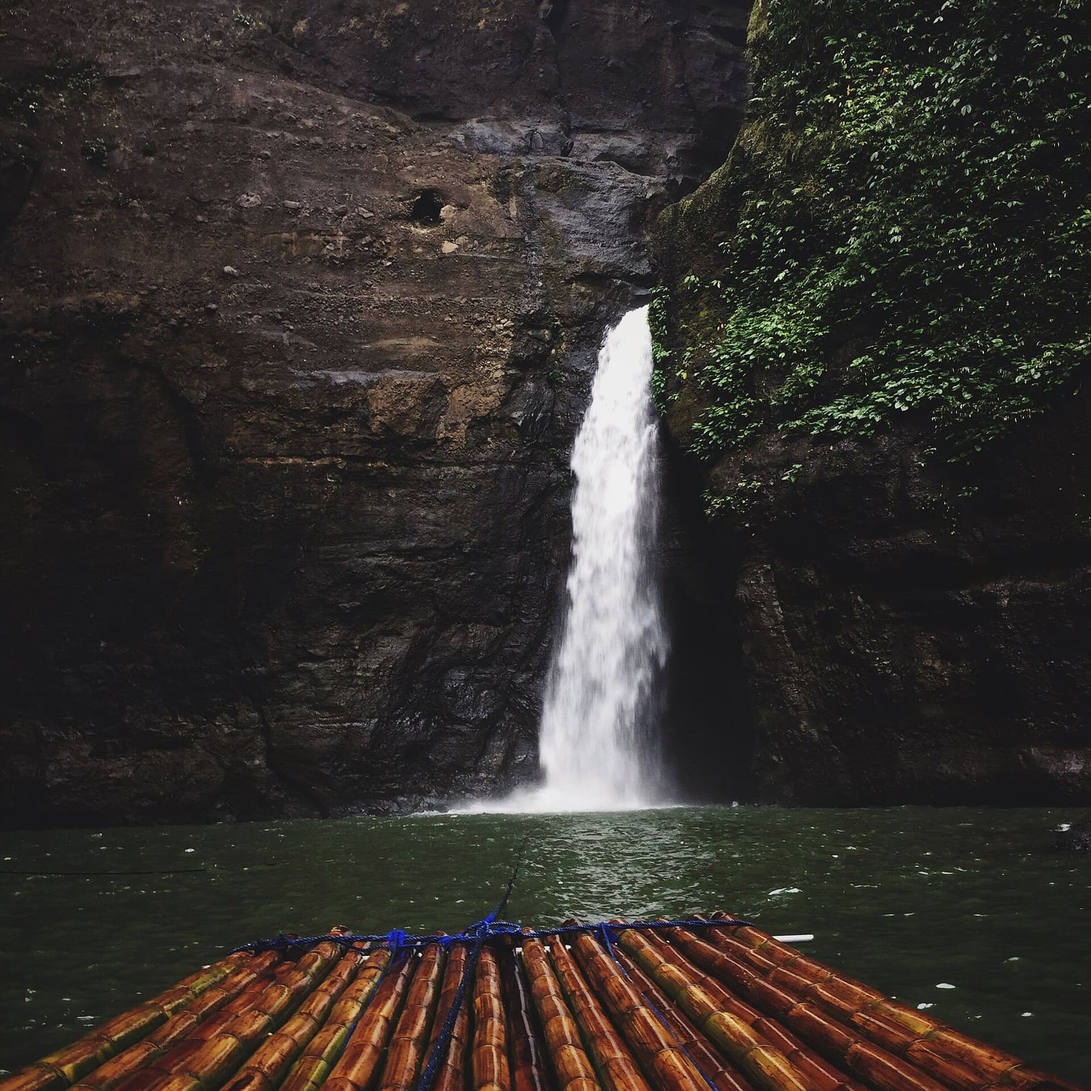
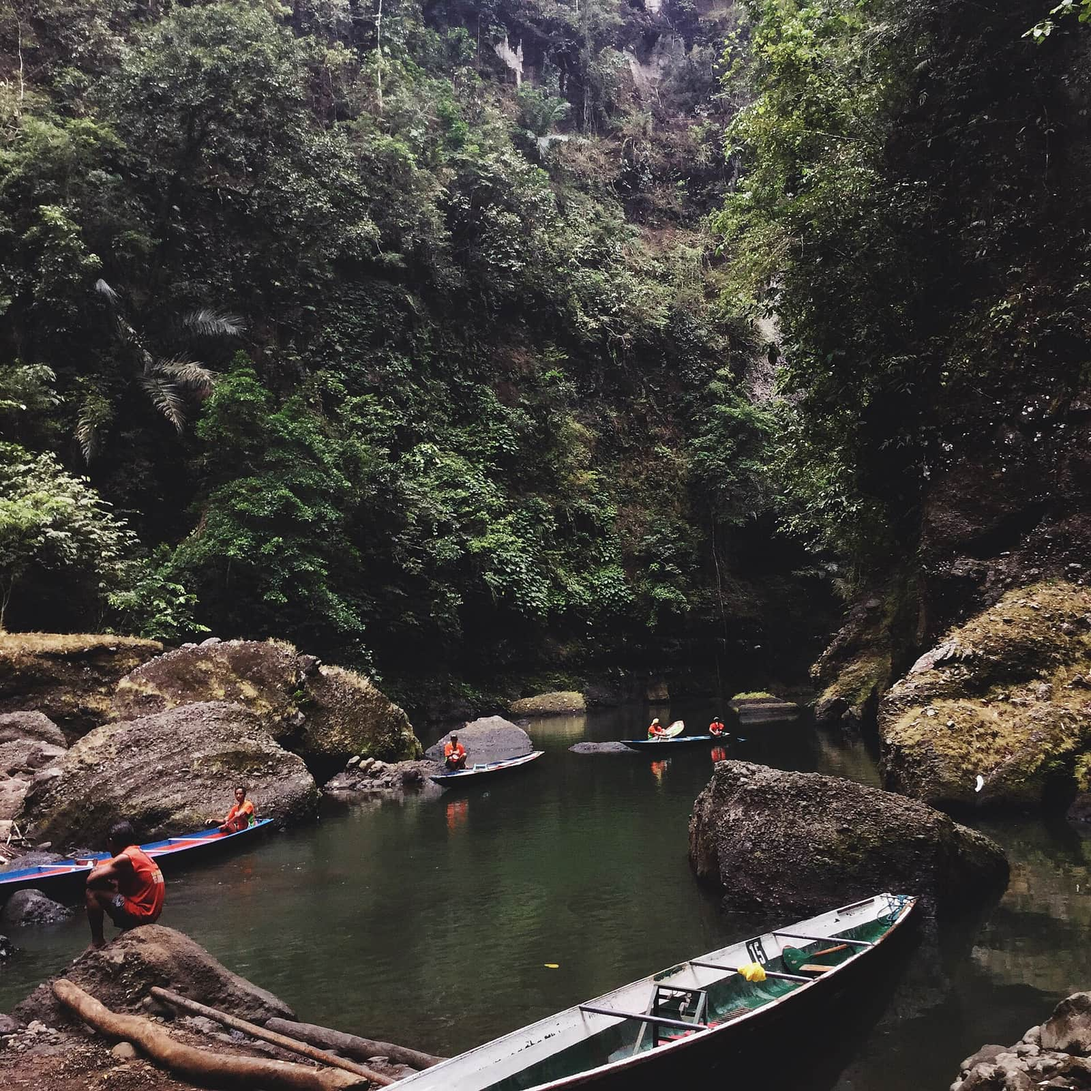
Top up Pagsanjan Falls photos; add non-destructive db:sync-photos
Pagsanjan: new public-domain cover (U.S. Navy, 3465px source) and a gorge
view for gallery-2 (Kathleen Mae Tugano, CC BY-SA 4.0) so the gallery no
longer repeats the cover's viewpoint. Caleruega and Kamay ni Hesus re-searched
with the suggested terms; no clearly better licensed image exists, sets kept.

db:sync-photos uploads the processed photos and updates only photo URLs and
credits by stable id, so live progress and favorites are never deleted.

diff --git a/scripts/sync-photos.js b/scripts/sync-photos.js
@@ -1,0 +1,93 @@
+#!/usr/bin/env node
+/**
+ * Photo top-up WITHOUT a reset.
+ *
+ *   npm run db:sync-photos
+ *
+ * After photos are replaced in data/destinations-seed.json and processed into
+ * data/images (npm run images:fetch -- <slug> --force), this:
+ *   1. uploads every dataset photo to Storage (overwriting in place);
+ *   2. in ONE transaction, UPDATEs only the photo columns — each
+ *      destination's cover_image_url and each destination_images row's
+ *      image_url + caption — matched by their stable ids.
+ *
+ * Unlike `npm run db:seed` it deletes nothing, so quiz attempts, visits and
+ * favorites are kept. It refuses to run if the database does not hold every
+ * dataset destination and photo row (run db:seed for that).
+ */
+
+const { loadDataset } = require('./lib/dataset');
+const { connect } = require('./lib/db');
+const { ensureImages, writeImageCredits } = require('./lib/images');
+const { buildRows, storageClient, uploadPhotos } = require('./seed-full-dataset');
+
+async function main() {
+  const dataset = loadDataset();
+  const photos = await ensureImages(dataset, { log: console.log });
+  writeImageCredits(dataset);
+
+  const { bucket, baseUrl } = storageClient();
+  await uploadPhotos(bucket, photos);
+  console.log(`  uploaded ${photos.length} photos`);
+
+  const rows = buildRows(dataset, photos, baseUrl);
+  const db = await connect();
+  try {
+    const counts = async () =>
+      (
+        await db.query(
+          `select (select count(*)::int from public.quiz_attempts) as attempts,
+                  (select count(*)::int from public.destination_completions) as visits,
+                  (select count(*)::int from public.favorites) as favorites`,
+        )
+      ).rows[0];
+    const before = await counts();
+
+    await db.query('begin');
+    let covers = 0;
+    for (const row of rows.destinations) {
+      const [id] = row;
+      const coverUrl = row[row.length - 1];
+      const result = await db.query(
+        'update public.destinations set cover_image_url = $2::text where id = $1::uuid and cover_image_url is distinct from $2::text',
+        [id, coverUrl],
+      );
+      const exists = await db.query('select 1 from public.destinations where id = $1', [id]);
+      if (exists.rowCount !== 1) throw new Error(`destination ${id} is missing — run npm run db:seed`);
+      covers += result.rowCount;
+    }
+    let photoRows = 0;
+    for (const [id, destinationId, imageUrl, caption, sortOrder] of rows.images) {
+      const exists = await db.query(
+        'select 1 from public.destination_images where id = $1 and destination_id = $2',
+        [id, destinationId],
+      );
+      if (exists.rowCount !== 1) throw new Error(`photo row ${id} is missing — run npm run db:seed`);
+      const result = await db.query(
+        `update public.destination_images
+            set image_url = $2::text, caption = $3::text, sort_order = $4::int
+          where id = $1::uuid
+            and (image_url, caption, sort_order) is distinct from ($2::text, $3::text, $4::int)`,
+        [id, imageUrl, caption, sortOrder],
+      );
+      photoRows += result.rowCount;
+    }
+    await db.query('commit');
+
+    const after = await counts();
+    console.log(`  changed ${covers} cover URL(s) and ${photoRows} photo row(s); everything else was already in sync`);
+    console.log('  progress rows before:', before, ' after:', after);
+    if (JSON.stringify(before) !== JSON.stringify(after)) throw new Error('progress rows changed!');
+    console.log('Photos in sync. No destination, quiz or progress row was removed.');
+  } catch (error) {
+    await db.query('rollback').catch(() => {});
+    throw error;
+  } finally {
+    await db.end().catch(() => {});
+  }
+}
+
+main().catch((error) => {
+  console.error(`\nPhoto sync failed: ${error.message}`);
+  process.exit(1);
+});

diff --git a/data/IMAGE_CREDITS.md b/data/IMAGE_CREDITS.md
@@ -59,9 +59,9 @@ This file is generated from `data/destinations-seed.json` — edit that, not thi
 
 | File | Author | Licence | Source |
 | --- | --- | --- | --- |
-| `pagsanjan-falls/cover.jpg` | Andrew Martin | [CC BY 3.0](https://creativecommons.org/licenses/by/3.0) | [Commons page](https://commons.wikimedia.org/wiki/File:Pagsanjan_Falls,_Laguna,_Philippines_-_panoramio.jpg) |
+| `pagsanjan-falls/cover.jpg` | U.S. Navy photo by Petty Officer 2nd Class Bruce Morgan | Public domain | [Commons page](https://commons.wikimedia.org/wiki/File:George_Washington_Sailors_Participate_in_Manila_MWR_Tour_(9169847).jpg) |
 | `pagsanjan-falls/gallery-1.jpg` | 문세진 | [CC BY 3.0](https://creativecommons.org/licenses/by/3.0) | [Commons page](https://commons.wikimedia.org/wiki/File:20150201_5%EC%9D%BC%EC%B0%A8_Pagsanjan_Falls_Tour_-_panoramio.jpg) |
-| `pagsanjan-falls/gallery-2.jpg` | Kathleen Mae Tugano | [CC BY-SA 4.0](https://creativecommons.org/licenses/by-sa/4.0) | [Commons page](https://commons.wikimedia.org/wiki/File:Pagsanjan_Falls_-_Pagsanjan,_Laguna_1.jpg) |
+| `pagsanjan-falls/gallery-2.jpg` | Kathleen Mae Tugano | [CC BY-SA 4.0](https://creativecommons.org/licenses/by-sa/4.0) | [Commons page](https://commons.wikimedia.org/wiki/File:Pagsanjan_Falls_-_Pagsanjan,_Laguna_2.jpg) |
 
 ## Nagcarlan Underground Cemetery
 
